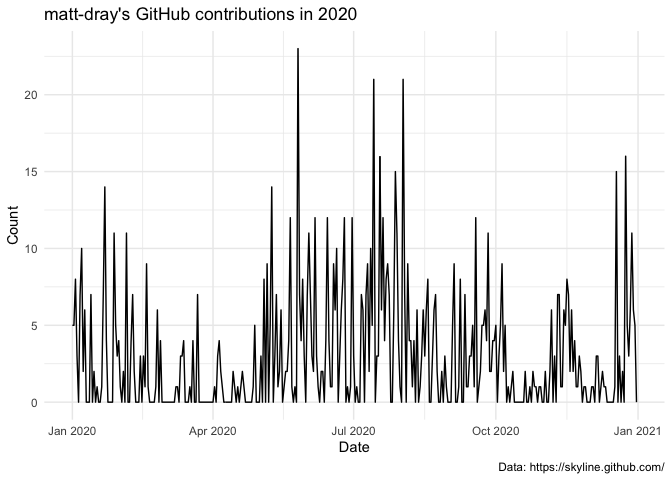
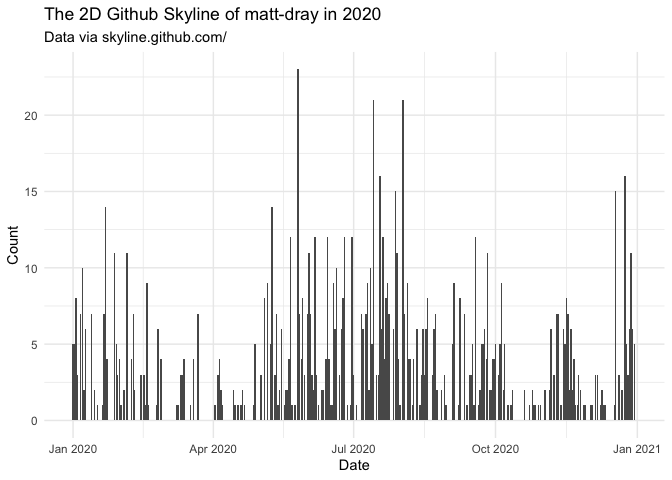
Add vapoRwave ref, remove tidyeval, use geom_col, close #1

diff --git a/README.md b/README.md
@@ -11,28 +11,35 @@ or
 proof-of-concept.](https://www.repostatus.org/badges/latest/concept.svg)](https://www.repostatus.org/#concept)
 <!-- badges: end -->
 
-The goal of {skyphone} is to create an audio version of [GitHub
+The goal of {skyphone} is to create an audio version of a [GitHub
 Skyline](https://skyline.github.com/) in R.
 
-Skyline is a novelty vanity webservice from GitHub. You input a username
-and can ‘view a 3D model of your GitHub contribution graph.’ {skyphone}
-fetches this data and puts it in a nice, tidy table that you can sonify
-or plot.
+Skyline is a novelty webservice from GitHub. You input a username and
+can ‘view a 3D model of your GitHub contribution graph.’ It looks a bit
+like a city skyline, hence the name.
+
+{skyphone} fetches the contributions data from the Skyline API and puts
+it in a nice, tidy table that you can sonify (i.e. convert to an audio
+signal) or plot.
 
 Very much in development.
 
 ## Installation
 
-You can install the development version of {skyphone} using {remotes}.
+You can install {skyphone} package from GitHub.
 
 ``` r
-# install.packages("remotes")
 remotes::install_github("skyphone")
 ```
 
+This assumes you’ve already installed {remotes} from CRAN with
+`install.packages("remotes")`
+
 ## Examples
 
-I’ll read in my own 2020 GitHub contributions from the Skyline API.
+The `sky_get()` function fetches from the Skyline API a named user’s
+(open) contributions for a given year. Here’s what it looks like to
+fetch my own contributions for 2020:
 
 ``` r
 library(skyphone)
@@ -54,7 +61,9 @@ md
 #> # … with 356 more rows
 ```
 
-You can make an audio version via the {sonify} package.
+You can hear contributions over time by passing the output from
+`sky_get()` to `sky_sonify()`. This function uses the {sonify} package
+to convert the data to audio format, where peaks are higher pitched.
 
 ``` r
 sky_sonify(md, play = FALSE, out_dir = NULL)
@@ -68,24 +77,33 @@ sky_sonify(md, play = FALSE, out_dir = NULL)
 #>  Bit (8/16/24/32/64):    16
 ```
 
-You can hear the output if you set `play = TRUE` and/or save the audio
-file as a .wav to the folder provided by `out_dir`.
+You’ll hear the output from your speakers if you set `play = TRUE`
+and/or save the audio file as a .wav to the folder provided by
+`out_dir`.
 
-Here’s what the audio output sounds like:
+[🔈 Click here to listen to the sonified output from this
+example.](https://www.rostrum.blog/output/skyphone/skyphone_matt-dray_2020.wav)
 
-<html>
-<audio controls>
-<source src="https://www.rostrum.blog/output/skyphone/skyphone_matt-dray_2020.wav" type="audio/wav">
-</audio>
-</html>
-
-There’s also a simple, opinionated built-in plotting function.
+I’ve also included a simple, opinionated plotting function called
+`sky_plot`, which gives you a 2D representation of your ‘skyline’.
 
 ``` r
-sky_plot(md)
+p <- sky_plot(md)
+p
 ```
 
-![](man/figures/README-example-plot-1.png)<!-- -->
+<img src="man/figures/README-example-plot-1.png" title="A bar chart of contributions to GitHub in 2020 by user matt-dray, which peaks in the summer months." alt="A bar chart of contributions to GitHub in 2020 by user matt-dray, which peaks in the summer months."  />
+
+There’s no reason why you couldn’t mimic the vaporwave aesthetic of
+GitHub Skyline website using [the {vapoRwave}
+package](https://github.com/moldach/vapoRwave)…
+
+``` r
+library(vapoRwave)  # install from GitHub
+p + new_retro()
+```
+
+<img src="man/figures/README-example-plot-vaporwave-1.png" title="A bar chart of contributions to GitHub in 2020 by user matt-dray, using a 'vaporwave' aesthetic for its colours and fonts." alt="A bar chart of contributions to GitHub in 2020 by user matt-dray, using a 'vaporwave' aesthetic for its colours and fonts."  />
 
 ## Thanks
 
@@ -97,13 +115,14 @@ API](https://den.dev/blog/get-github-contributions-api/).
 ## GitHub terms
 
 You can read GitHub’s
-[terms](https://docs.github.com/en/github/site-policy/github-terms-of-service),
-[privacy](https://docs.github.com/en/github/site-policy/github-privacy-statement)
+[terms](https://docs.github.com/en/github/site-policy/github-terms-of-service)
+and [privacy
+statement](https://docs.github.com/en/github/site-policy/github-privacy-statement)
 for their service.
 
 ## Code of Conduct
 
-Please note that the skyphone project is released with a [Contributor
+Please note that the {skyphone} project is released with a [Contributor
 Code of
 Conduct](https://contributor-covenant.org/version/2/0/CODE_OF_CONDUCT.html).
 By contributing to this project, you agree to abide by its terms.
